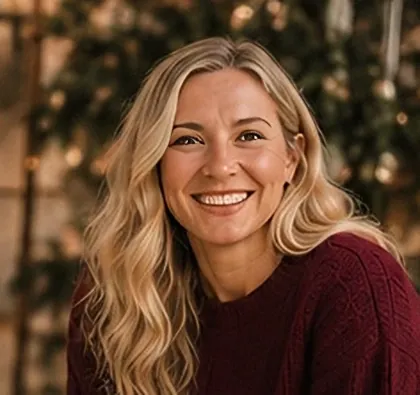
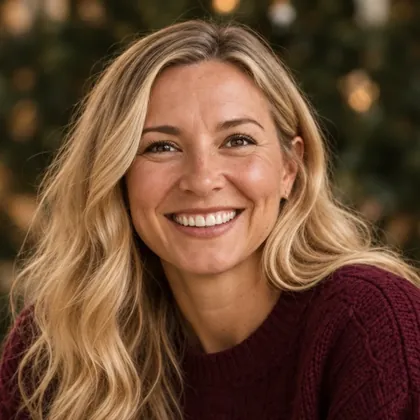
Christmas businesses: new ultra-realistic portraits for Natalie, Emma and Laura (#36)
Claude-Session: https://claude.ai/code/session_01JtVuQK6rjCud4L7inXJGJf

diff --git a/docs/christmas/index.html b/docs/christmas/index.html
@@ -76,7 +76,7 @@
   <h2 class="xm-kick xm-h2 rv">The people behind the magic</h2>
   <p class="xm-sub rv d1">Meet the wonderful women and independent businesses that are helping to make SHE Christmas extra special.</p>
   <ul class="xm-faces rv d1">
-<li><div class="xm-face"><img src="/static/img/xmas-natalie.webp" alt="Portrait of Natalie" loading="lazy" decoding="async" srcset="/static/img/xmas-natalie-420.webp 420w, /static/img/xmas-natalie.webp 480w" sizes="100vw" width="480" height="436"></div><b>The Happy Witch</b><span>Natalie</span></li><li><div class="xm-face"><img src="/static/img/xmas-emma.webp" alt="Portrait of Emma" loading="lazy" decoding="async" srcset="/static/img/xmas-emma-420.webp 420w, /static/img/xmas-emma.webp 472w" sizes="100vw" width="472" height="444"></div><b>Rooted Retreats</b><span>Emma</span></li><li><div class="xm-face"><img src="/static/img/xmas-laura.webp" alt="Portrait of Laura" loading="lazy" decoding="async" width="456" height="408"></div><b>Laura James Styling</b><span>Laura</span></li><li><div class="xm-face"><img src="/static/img/xmas-abi.webp" alt="Portrait of Abi" loading="lazy" decoding="async" srcset="/static/img/xmas-abi-420.webp 420w, /static/img/xmas-abi-640.webp 640w, /static/img/xmas-abi.webp 800w" sizes="100vw" width="800" height="800"></div><b>Abi Jam Yoga</b><span>Abi</span></li><li><div class="xm-face"><img src="/static/img/xmas-allura.webp" alt="Portrait of Megan Hancox" loading="lazy" decoding="async" srcset="/static/img/xmas-allura-420.webp 420w, /static/img/xmas-allura-640.webp 640w, /static/img/xmas-allura.webp 800w" sizes="100vw" width="800" height="800"></div><b>Allura Crystal</b><span>Megan Hancox</span></li><li><div class="xm-face"><img src="/static/img/xmas-emily.webp" alt="Portrait of Emily White" loading="lazy" decoding="async" srcset="/static/img/xmas-emily-420.webp 420w, /static/img/xmas-emily-640.webp 640w, /static/img/xmas-emily.webp 800w" sizes="100vw" width="800" height="800"></div><b>Integrated Healing</b><span>Emily White</span></li><li><div class="xm-face"><img src="/static/img/xmas-rhiannon.webp" alt="Portrait of Rhiannon" loading="lazy" decoding="async" srcset="/static/img/xmas-rhiannon-420.webp 420w, /static/img/xmas-rhiannon-640.webp 640w, /static/img/xmas-rhiannon.webp 800w" sizes="100vw" width="800" height="800"></div><b>Body and Soul Therapies</b><span>Rhiannon</span></li>  </ul>
+<li><div class="xm-face"><img src="/static/img/xmas-natalie.webp" alt="Portrait of Natalie" loading="lazy" decoding="async" srcset="/static/img/xmas-natalie-420.webp 420w, /static/img/xmas-natalie-640.webp 640w, /static/img/xmas-natalie.webp 800w" sizes="100vw" width="800" height="800"></div><b>The Happy Witch</b><span>Natalie</span></li><li><div class="xm-face"><img src="/static/img/xmas-emma.webp" alt="Portrait of Emma" loading="lazy" decoding="async" srcset="/static/img/xmas-emma-420.webp 420w, /static/img/xmas-emma-640.webp 640w, /static/img/xmas-emma.webp 800w" sizes="100vw" width="800" height="800"></div><b>Rooted Retreats</b><span>Emma</span></li><li><div class="xm-face"><img src="/static/img/xmas-laura.webp" alt="Portrait of Laura" loading="lazy" decoding="async" srcset="/static/img/xmas-laura-420.webp 420w, /static/img/xmas-laura-640.webp 640w, /static/img/xmas-laura.webp 800w" sizes="100vw" width="800" height="800"></div><b>Laura James Styling</b><span>Laura</span></li><li><div class="xm-face"><img src="/static/img/xmas-abi.webp" alt="Portrait of Abi" loading="lazy" decoding="async" srcset="/static/img/xmas-abi-420.webp 420w, /static/img/xmas-abi-640.webp 640w, /static/img/xmas-abi.webp 800w" sizes="100vw" width="800" height="800"></div><b>Abi Jam Yoga</b><span>Abi</span></li><li><div class="xm-face"><img src="/static/img/xmas-allura.webp" alt="Portrait of Megan Hancox" loading="lazy" decoding="async" srcset="/static/img/xmas-allura-420.webp 420w, /static/img/xmas-allura-640.webp 640w, /static/img/xmas-allura.webp 800w" sizes="100vw" width="800" height="800"></div><b>Allura Crystal</b><span>Megan Hancox</span></li><li><div class="xm-face"><img src="/static/img/xmas-emily.webp" alt="Portrait of Emily White" loading="lazy" decoding="async" srcset="/static/img/xmas-emily-420.webp 420w, /static/img/xmas-emily-640.webp 640w, /static/img/xmas-emily.webp 800w" sizes="100vw" width="800" height="800"></div><b>Integrated Healing</b><span>Emily White</span></li><li><div class="xm-face"><img src="/static/img/xmas-rhiannon.webp" alt="Portrait of Rhiannon" loading="lazy" decoding="async" srcset="/static/img/xmas-rhiannon-420.webp 420w, /static/img/xmas-rhiannon-640.webp 640w, /static/img/xmas-rhiannon.webp 800w" sizes="100vw" width="800" height="800"></div><b>Body and Soul Therapies</b><span>Rhiannon</span></li>  </ul>
   <a class="xm-btn rv d2" href="/christmas/partners/">Meet the Businesses Behind the Magic <svg class="ar" width="14" height="14" viewBox="0 0 24 24" fill="none" stroke="currentColor" stroke-width="1.6" stroke-linecap="round"><path d="M4 12h15M13 6l6 6-6 6"/></svg></a>
 </div></section>
 

diff --git a/docs/christmas/partners/index.html b/docs/christmas/partners/index.html
@@ -13,7 +13,7 @@
 <meta name="theme-color" content="#5E1020">
 <style>@font-face{font-family:'Playfair Display';font-style:normal;font-weight:400 600;font-display:swap;src:url(/static/fonts/playfair-display.woff2) format('woff2')}@font-face{font-family:'DM Sans';font-style:normal;font-weight:300 700;font-display:swap;src:url(/static/fonts/dm-sans.woff2) format('woff2')}</style>
 <link rel="preload" as="font" type="font/woff2" href="/static/fonts/playfair-display.woff2" crossorigin><link rel="preload" as="font" type="font/woff2" href="/static/fonts/dm-sans.woff2" crossorigin><link rel="stylesheet" href="/static/css/site.css?v=51809377">
-<link rel="preload" as="image" imagesrcset="/static/img/xmas-natalie-420.webp 420w, /static/img/xmas-natalie.webp 480w" imagesizes="100vw" fetchpriority="high">
+<link rel="preload" as="image" imagesrcset="/static/img/xmas-natalie-420.webp 420w, /static/img/xmas-natalie-640.webp 640w, /static/img/xmas-natalie.webp 800w" imagesizes="100vw" fetchpriority="high">
 </head>
 <body class="xmas">
 <main>
@@ -41,7 +41,7 @@
 
 <section class="xm-paper xm-partners"><div class="wrap">
   <article class="xm-partner rv">
-    <figure class="xm-pol"><div class="xm-pic photo face"><img src="/static/img/xmas-natalie.webp" alt="Portrait of Natalie" decoding="async" srcset="/static/img/xmas-natalie-420.webp 420w, /static/img/xmas-natalie.webp 480w" sizes="100vw" width="480" height="436" fetchpriority="high"></div><figcaption class="xm-script">Natalie</figcaption></figure>
+    <figure class="xm-pol"><div class="xm-pic photo face"><img src="/static/img/xmas-natalie.webp" alt="Portrait of Natalie" decoding="async" srcset="/static/img/xmas-natalie-420.webp 420w, /static/img/xmas-natalie-640.webp 640w, /static/img/xmas-natalie.webp 800w" sizes="100vw" width="800" height="800" fetchpriority="high"></div><figcaption class="xm-script">Natalie</figcaption></figure>
     <div class="xm-ptx">
 <p class="xm-kick">Natalie</p>      <h2 class="xm-script xm-pname">The Happy Witch</h2>
       <dl>
@@ -49,7 +49,7 @@
     </div>
 <aside class="xm-raffle"><svg viewBox="0 0 24 24" fill="none" stroke="currentColor" stroke-width="1.3" stroke-linecap="round" stroke-linejoin="round" aria-hidden="true"><rect x="4" y="9" width="16" height="11" rx="1"/><path d="M3 9h18v3H3zM12 9v11M12 9C10 5 6 6 7.5 8.5M12 9c2-4 6-3 4.5-.5"/></svg><div><p class="xm-kick">Raffle contribution</p><p>A curated crystal gift set</p></div></aside>  </article>
   <article class="xm-partner flip rv">
-    <figure class="xm-pol"><div class="xm-pic photo face"><img src="/static/img/xmas-emma.webp" alt="Portrait of Emma" loading="lazy" decoding="async" srcset="/static/img/xmas-emma-420.webp 420w, /static/img/xmas-emma.webp 472w" sizes="100vw" width="472" height="444"></div><figcaption class="xm-script">Emma</figcaption></figure>
+    <figure class="xm-pol"><div class="xm-pic photo face"><img src="/static/img/xmas-emma.webp" alt="Portrait of Emma" loading="lazy" decoding="async" srcset="/static/img/xmas-emma-420.webp 420w, /static/img/xmas-emma-640.webp 640w, /static/img/xmas-emma.webp 800w" sizes="100vw" width="800" height="800"></div><figcaption class="xm-script">Emma</figcaption></figure>
     <div class="xm-ptx">
 <p class="xm-kick">Emma</p>      <h2 class="xm-script xm-pname">Rooted Retreats</h2>
       <dl>
@@ -57,7 +57,7 @@
     </div>
 <aside class="xm-raffle"><svg viewBox="0 0 24 24" fill="none" stroke="currentColor" stroke-width="1.3" stroke-linecap="round" stroke-linejoin="round" aria-hidden="true"><rect x="4" y="9" width="16" height="11" rx="1"/><path d="M3 9h18v3H3zM12 9v11M12 9C10 5 6 6 7.5 8.5M12 9c2-4 6-3 4.5-.5"/></svg><div><p class="xm-kick">Raffle contribution</p><p>A private yoga session for two</p></div></aside>  </article>
   <article class="xm-partner rv">
-    <figure class="xm-pol"><div class="xm-pic photo face"><img src="/static/img/xmas-laura.webp" alt="Portrait of Laura" loading="lazy" decoding="async" width="456" height="408"></div><figcaption class="xm-script">Laura</figcaption></figure>
+    <figure class="xm-pol"><div class="xm-pic photo face"><img src="/static/img/xmas-laura.webp" alt="Portrait of Laura" loading="lazy" decoding="async" srcset="/static/img/xmas-laura-420.webp 420w, /static/img/xmas-laura-640.webp 640w, /static/img/xmas-laura.webp 800w" sizes="100vw" width="800" height="800"></div><figcaption class="xm-script">Laura</figcaption></figure>
     <div class="xm-ptx">
 <p class="xm-kick">Laura</p>      <h2 class="xm-script xm-pname">Laura James Styling</h2>
       <dl>
